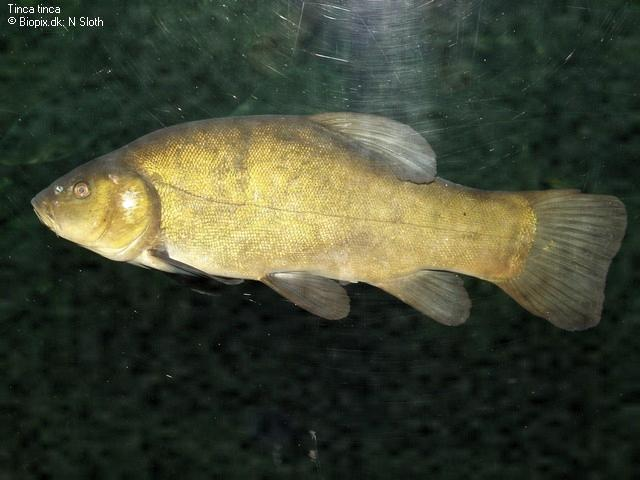
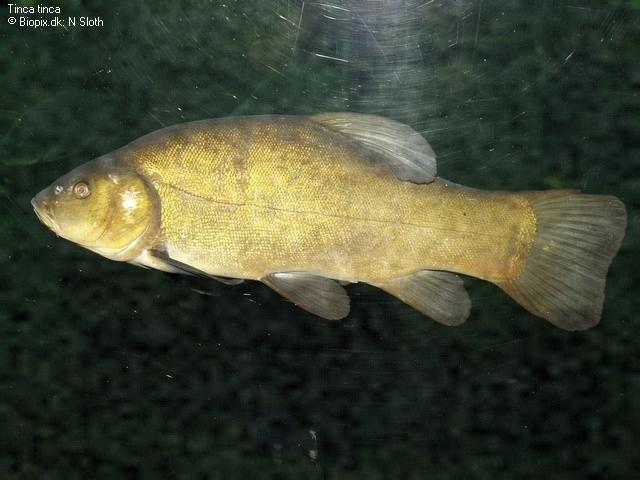
distance function added

diff --git a/perturbance_test/perturb.py b/perturbance_test/perturb.py
@@ -70,49 +70,166 @@ def pdq_best_distance(hashes_a, hashes_b):
                     return 0
     return best
 
+def pdq_distance_gray(x_float, delta_float):
+    """
+    Compute PDQ distance (and similarity) between a grayscale base image x and its
+    perturbed version x + delta. Both are float arrays in [0,1], shape HxW.
+
+    Returns: (distance_0_256, similarity_0_1, q_x, q_xpert)
+    """
+    # 1) form perturbed grayscale, clamp to valid range
+    x_pert = np.clip(x_float + delta_float, 0.0, 1.0)
+
+    # 2) PDQ expects 8-bit RGB; convert HxW -> HxWx3 uint8
+    x_rgb_u8     = _ensure_rgb_uint8(to_uint8(x_float))
+    xpert_rgb_u8 = _ensure_rgb_uint8(to_uint8(x_pert))
+
+    # 3) dihedral PDQ hashes (rot/flip robustness)
+    hv1, q1 = pdq_dihedral_hashes(x_rgb_u8)
+    hv2, q2 = pdq_dihedral_hashes(xpert_rgb_u8)
+
+    # 4) best Hamming distance across 8x8 pairs + similarity
+    dist = pdq_best_distance(hv1, hv2)       # 0..256
+
+    return dist
+
+# === IMPLEMENTATION OF ALGORITHM 3: InverseDelta ===
+
+def resize_float_delta(delta_small, out_size):
+    """
+    Resize a float single-channel delta (values may be negative) from small -> out_size (W,H).
+    We encode into uint8 for resizing via PIL then decode back to float:
+      encode: u8 = round((delta + 1) / 2 * 255)
+      decode: delta = (u8/255)*2 - 1
+    This preserves sign and relative magnitudes within [-1,1].
+    """
+    # delta_small : Hs x Ws floats (likely small values, e.g. [-0.05, 0.05])
+    # map to u8
+    u8 = to_uint8((delta_small + 1.0) / 2.0)  # now 0..255
+    img = Image.fromarray(u8, mode="L")
+    img_resized = img.resize(out_size, resample=Image.BILINEAR)
+    u8_resized = np.asarray(img_resized, dtype=np.uint8)
+    delta_resized = (u8_resized.astype(np.float32) / 255.0) * 2.0 - 1.0
+    return delta_resized.astype(np.float32)
+
+def inverse_delta_map(orig_rgb_float, delta_gray_resized):
+    """
+    Map a single-channel resized grayscale perturbation (delta_gray_resized: HxW)
+    to a 3-channel perturbation delta_rgb (HxWx3) following Algorithm 3.
+    Steps:
+      - Compute per-pixel mean grayscale intensity mean(X_c) = (R+G+B)/3
+      - For each pixel i and each channel c:
+          if delta_gray_i <= 0:
+              delta_c_i = delta_gray_i * (X_c_i / mean_i)        [if mean>eps]
+          else:
+              delta_c_i = delta_gray_i * ((1 - X_c_i) / (1 - mean_i)) [if 1-mean>eps]
+      - Clamp X_c + delta_c to [0,1] and return the offset (clamped - X_c).
+    """
+    eps = 1e-8
+    # orig_rgb_float: HxWx3 in [0,1]
+    X = orig_rgb_float
+    if X.ndim != 3 or X.shape[2] != 3:
+        raise ValueError("orig_rgb_float must be HxWx3 float in [0,1]")
+
+    H, W, _ = X.shape
+    if delta_gray_resized.shape != (H, W):
+        raise ValueError("delta_gray_resized must be same spatial size as orig_rgb_float")
+
+    # mean grayscale per pixel
+    mean = np.mean(X, axis=2)  # HxW
+
+    # allocate output delta per channel
+    delta_rgb = np.zeros_like(X, dtype=np.float32)  # HxWx3
+
+    # Broadcast arrays for vectorized ops
+    mean_b = mean[..., None]  # HxWx1
+    delta_b = delta_gray_resized[..., None]  # HxWx1
+
+    # Two masks: where grayscale delta is negative or non-positive, and where positive
+    neg_mask = (delta_b <= 0.0)
+    pos_mask = ~neg_mask
+
+    # SAFE division denominators
+    denom_neg = np.where(mean_b > eps, mean_b, np.inf)         # avoid divide-by-zero
+    denom_pos = np.where((1.0 - mean_b) > eps, (1.0 - mean_b), np.inf)
+
+    # For negative/zero delta: scale by (X_c / mean)
+    delta_neg = delta_b * (X / denom_neg)    # HxWx3, denom_neg inf => zero contribution
+
+    # For positive delta: scale by ((1-X_c) / (1-mean))
+    delta_pos = delta_b * ((1.0 - X) / denom_pos)
+
+    # Combine using masks (broadcasted)
+    delta_rgb = np.where(neg_mask, delta_neg, delta_pos)  # HxWx3
+
+    # Now clamp: ensure X + delta_rgb in [0,1] and convert delta_rgb to the clamped offset
+    X_plus = np.clip(X + delta_rgb, 0.0, 1.0)
+    delta_rgb_clamped = X_plus - X
+
+    return delta_rgb_clamped.astype(np.float32)
+
 def process_image(path):
     name = os.path.basename(path)
-    img = Image.open(path).convert("L").resize(RESIZE_TO)
-    x = to_float(img)
 
-    # apply perturbation
-    x_pert = add_noise(x, NOISE_STD)
+    # 1) Load original full-resolution RGB image and convert to float [0,1]
+    orig = Image.open(path).convert("RGB")
+    orig_size = orig.size  # (W, H)
+    orig_rgb = to_float(orig)  # HxWx3 floats
 
-    # compute metrics
-    delta = x_pert - x
-    metrics = {
-        "L1": lp_norm(delta, 1),
-        "L2": lp_norm(delta, 2),
-        "L∞": lp_norm(delta, np.inf),
-        "L1_pixel": lp_per_pixel(delta, 1),
-        "L2_pixel": lp_per_pixel(delta, 2),
-    }
+    # 2) Build the small grayscale image (this mirrors the attack space)
+    small_gray = orig.convert("L").resize(RESIZE_TO)
+    x = to_float(small_gray)  # Hs x Ws, floats in [0,1]
 
-    # === NEW: PDQ similarity (distance + similarity score) ===
-    x_u8_rgb = _ensure_rgb_uint8(to_uint8(x))          # HxWx3 uint8
-    xpert_u8_rgb = _ensure_rgb_uint8(to_uint8(x_pert)) # HxWx3 uint8
+    # 3) Apply perturbation in the small grayscale domain (here: Gaussian noise as before)
+    x_pert = add_noise(x, NOISE_STD)  # Hs x Ws
 
-    hv1, q1 = pdq_dihedral_hashes(x_u8_rgb)
-    hv2, q2 = pdq_dihedral_hashes(xpert_u8_rgb)
+    # 4) Small-plane delta (the optimized \bar{δ})
+    bar_delta = x_pert - x  # Hs x Ws, can be negative/positive
 
-    pdq_dist = pdq_best_distance(hv1, hv2)        # 0..256 (lower is more similar)
-    pdq_sim = (256 - pdq_dist) / 256.0            # 0..1 (higher is more similar)
+    # 5) Resize bar_delta to original image spatial size -> δ_gray (HxW)
+    #    This corresponds to step: δ_gray = resize(\bar{δ}, n_gray)
+    W_orig, H_orig = orig_size
+    delta_gray_resized = resize_float_delta(bar_delta, (W_orig, H_orig))  # H x W floats
 
-    # stack original and perturbed for visual comparison
-    stacked = np.hstack([x, x_pert])
-    out_img = Image.fromarray(to_uint8(stacked))
+    # 6) Map grayscale perturbation to RGB perturbation using Algorithm 3
+    delta_rgb = inverse_delta_map(orig_rgb, delta_gray_resized)  # HxWx3
 
+    # 7) Apply final perturbation to original image and clamp, create output image
+    perturbed_rgb = np.clip(orig_rgb + delta_rgb, 0.0, 1.0)
+    perturbed_u8 = to_uint8(perturbed_rgb)
+    perturbed_img = Image.fromarray(perturbed_u8, mode="RGB")
+
+    # 8) For visualization: create a small stacked comparison (orig small vs pert small)
+    stacked_small = np.hstack([x, x_pert])   # Hs x (2*Ws) single channel
+    stacked_small_u8 = to_uint8(stacked_small)
+    stacked_img_small = Image.fromarray(stacked_small_u8, mode="L")
+
+    # 9) Save outputs
     os.makedirs(OUTPUT_DIR, exist_ok=True)
-    out_path = os.path.join(OUTPUT_DIR, f"pert_{name}")
-    out_img.save(out_path)
+    out_path_full = os.path.join(OUTPUT_DIR, f"pert_resized_{name}")
+    perturbed_img.save(out_path_full)
+
+    out_path_small = os.path.join(OUTPUT_DIR, f"pert_small_{name}")
+    stacked_img_small.save(out_path_small)
+
+    # 10) PDQ reporting (optional)
+    x_for_pdq = _ensure_rgb_uint8(to_uint8(x))           # small original -> RGB for pdq
+    xpert_for_pdq = _ensure_rgb_uint8(to_uint8(x_pert))  # small pert -> RGB for pdq
+    hv1, q1 = pdq_dihedral_hashes(x_for_pdq)
+    hv2, q2 = pdq_dihedral_hashes(xpert_for_pdq)
+    pdq_dist = pdq_best_distance(hv1, hv2)
+    pdq_sim = (256 - pdq_dist) / 256.0
 
     if REPORT:
-        print(f"{name:20s} | "
-              f"L1={metrics['L1']:.4f}  L2={metrics['L2']:.4f}  "
-              f"L∞={metrics['L∞']:.4f}  "
-              f"L2/pix={metrics['L2_pixel']:.5f}  | "
-              f"PDQdist={pdq_dist:3d}  PDQsim={pdq_sim:.3f}  "
-              f"Qorig={q1:.1f}  Qpert={q2:.1f}")
+        # L1/L2/Linf metrics on small plane (same as you already had)
+        delta = bar_delta
+        L1 = np.sum(np.abs(delta))
+        L2 = np.sqrt(np.sum(delta * delta))
+        Linf = np.max(np.abs(delta))
+        L2pix = np.sqrt(np.mean(delta * delta))
+        print(f"{name:25s} | L1={L1:.4f} L2={L2:.4f} L∞={Linf:.4f} L2/pix={L2pix:.5f} | "
+              f"PDQdist={pdq_dist:3d} PDQsim={pdq_sim:.3f} Qorig={q1:.1f} Qpert={q2:.1f} "
+              f"SavedFull={out_path_full} SavedSmall={out_path_small}")
 
 def main():
     imgs = [f for f in os.listdir(INPUT_DIR)
